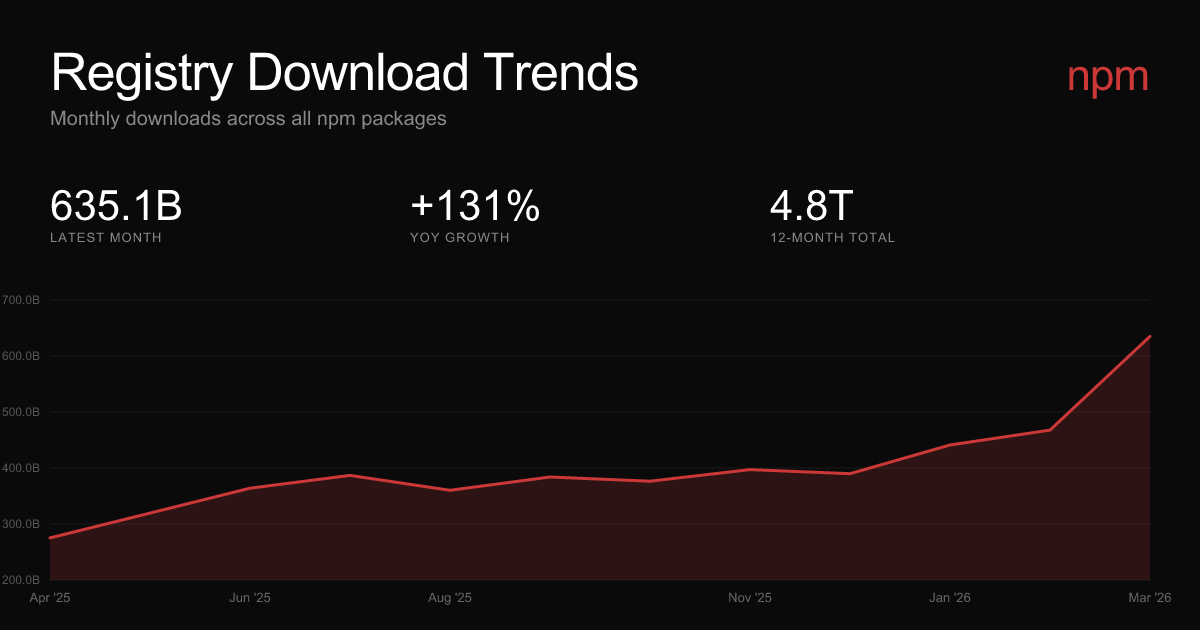
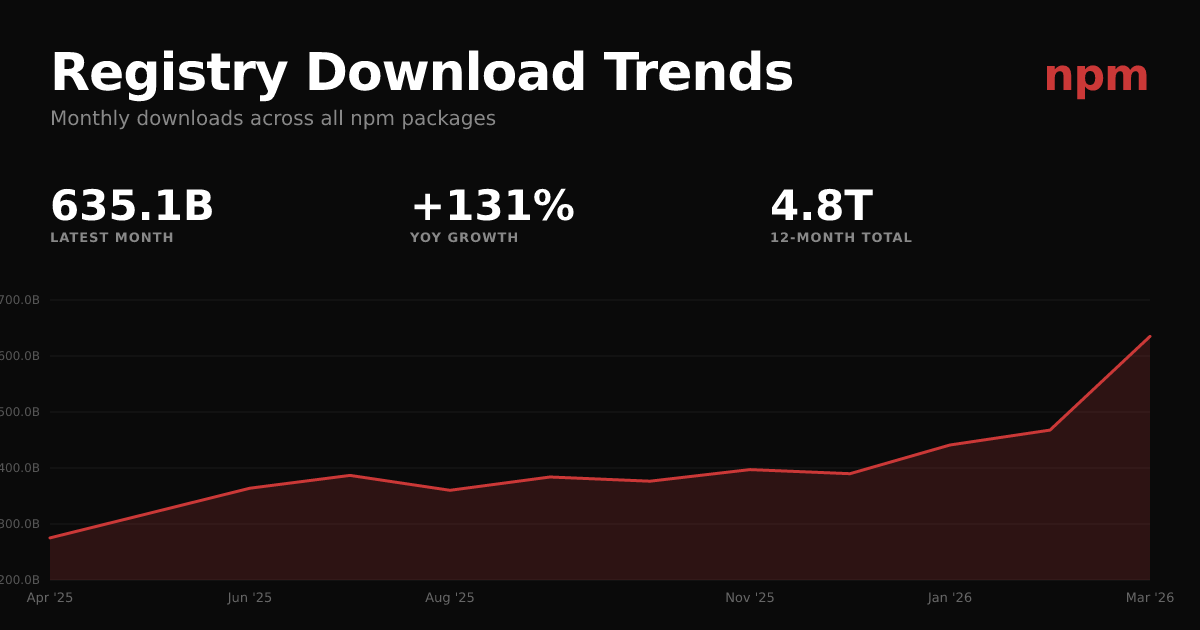
chore: pin OG font to DejaVu and SHA-pin actions

diff --git a/scripts/generate-og.js b/scripts/generate-og.js
@@ -8,7 +8,8 @@ const { getDownloads, bucketBy } = require('../lib/index.js');
 const WIDTH = 1200;
 const HEIGHT = 630;
 const MONTHS_BACK = 12;
-const FONT_FAMILY = 'Inter, -apple-system, BlinkMacSystemFont, Segoe UI, Roboto, sans-serif';
+// Pinned so local and CI render match. Mac: `brew install --cask font-dejavu`.
+const FONT_FAMILY = "'DejaVu Sans', sans-serif";
 
 const MONTHS = ['Jan','Feb','Mar','Apr','May','Jun','Jul','Aug','Sep','Oct','Nov','Dec'];
 
